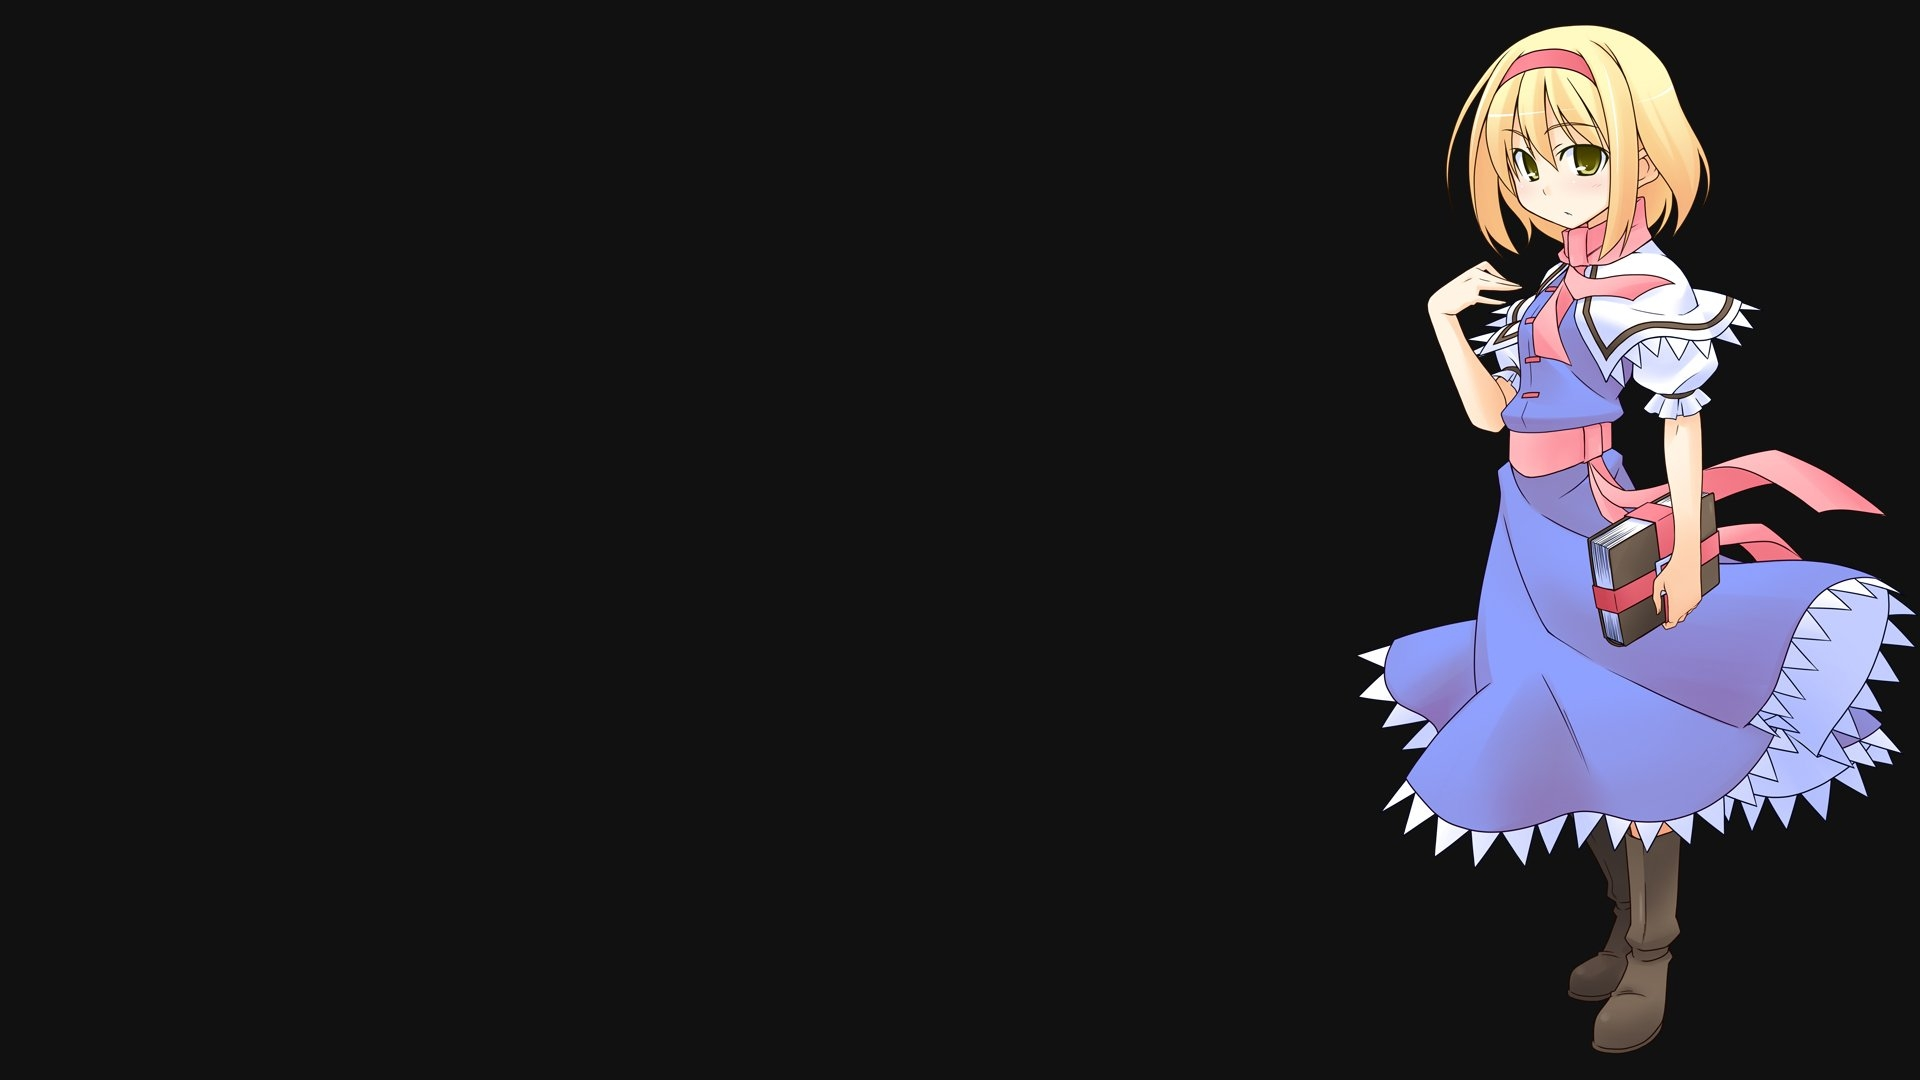
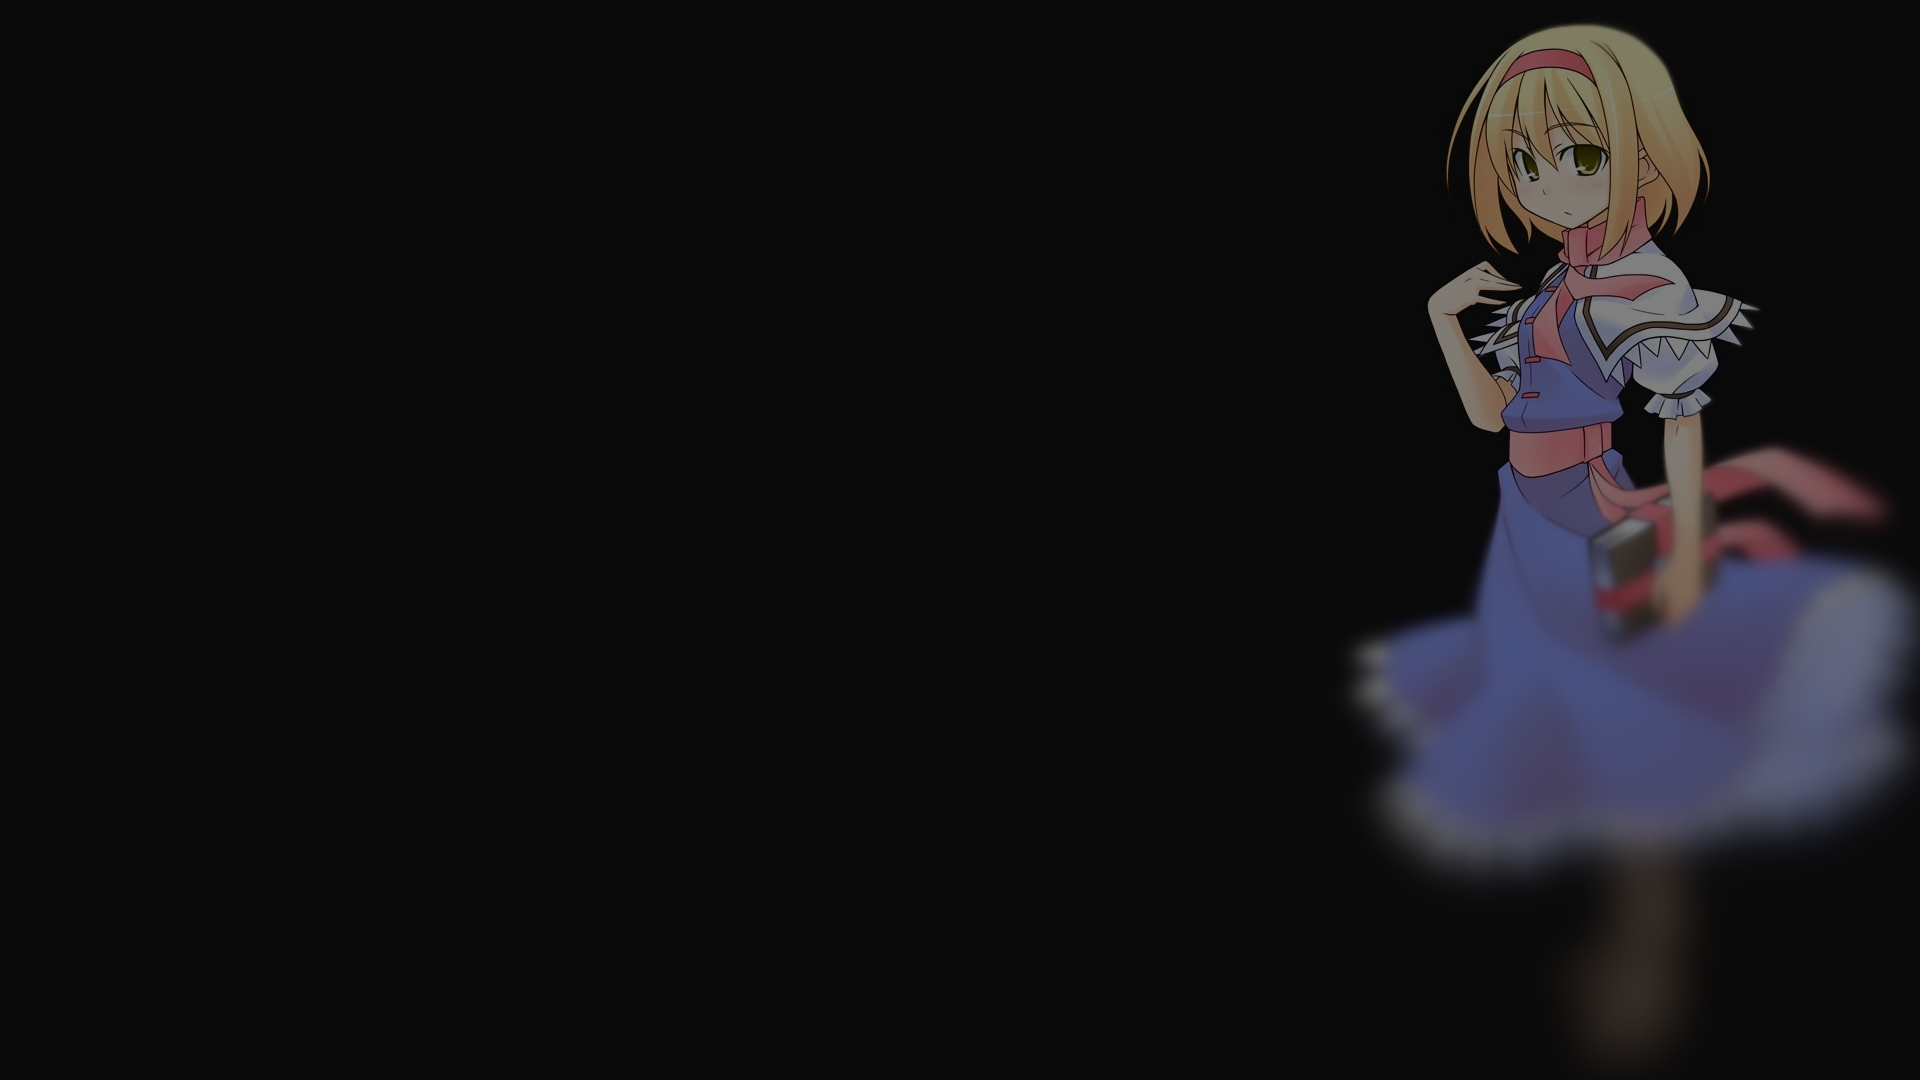
Implemented theming structure, two basic themes, and a fallback theme. Vocaloid theme to come later

Changed region(s): [[0.6875, 0.0, 1.0, 0.9778]]

diff --git a/other/start/styles/sakura.theme.css b/other/start/styles/sakura.theme.css
@@ -6,7 +6,7 @@ html {
     justify-content: center;
     margin: 0;
     /* background-color: #212121; */
-    background-image: url("../images/backgrounds/touhou.jpg");
+    background-image: url("../images/backgrounds/sakura.jpg");
     background-repeat: no-repeat;
     background-attachment: fixed;
     background-size: cover;
@@ -20,6 +20,7 @@ h1 {
     text-align: center;
     color: #fff;
     font-weight: bold;
+    text-shadow: 2px 2px 10px #000000;
 }
 
 body {
@@ -40,8 +41,8 @@ a:focus, a:hover {
 
 input {
     height: inherit;
-    background: rgb(18, 18, 18);
-    color: #9e9e9e;
+    background: rgb(203, 122, 149);
+    color: #fff;
     font-weight: bold;
     line-height: 2em;
     box-shadow: none;
@@ -54,6 +55,11 @@ input {
     grid-column: 1 / -1;
     margin: 0;
     transition: all .2s ease-in-out; 
+}
+
+::placeholder {
+    /* color: rgb(151, 91, 111); */
+    color: rgb(255, 153, 187);
 }
 
 input:focus {
@@ -91,45 +97,46 @@ input:focus {
     margin: 5;
     padding: 0px;
     text-align: center;
-    color: #aaa;
+    text-shadow: 2px 2px 10px #000000;
+    color: #fff;
 }
 
 #link1 {
-    background-image: url('../images/links/touhou/link1.webp');
+    background-image: url('../images/links/sakura/link1.webp');
 }
 
 #link2 {
-    background-image: url('../images/links/touhou/link2.webp');
+    background-image: url('../images/links/sakura/link2.webp');
 }
 
 #link3 {
-    background-image: url('../images/links/touhou/link3.webp');
+    background-image: url('../images/links/sakura/link3.webp');
 }
 
 #link4 {
-    background-image: url('../images/links/touhou/link4.webp');
+    background-image: url('../images/links/sakura/link4.webp');
 }
 
 #link5 {
-    background-image: url('../images/links/touhou/link5.webp');
+    background-image: url('../images/links/sakura/link5.webp');
 }
 
 #link6 {
-    background-image: url('../images/links/touhou/link6.webp');
+    background-image: url('../images/links/sakura/link6.webp');
 }
 
 #link7 {
-    background-image: url('../images/links/touhou/link7.webp');
+    background-image: url('../images/links/sakura/link7.webp');
 }
 
 #link8 {
-    background-image: url('../images/links/touhou/link8.webp');
+    background-image: url('../images/links/sakura/link8.webp');
 }
 
 #link9 {
-    background-image: url('../images/links/touhou/link9.webp');
+    background-image: url('../images/links/sakura/link9.webp');
 }
 
 #link10 {
-    background-image: url('../images/links/touhou/link10.webp');
+    background-image: url('../images/links/sakura/link10.webp');
 }

diff --git a/other/start/styles/default.theme.css b/other/start/styles/default.theme.css
@@ -5,8 +5,8 @@ html {
     height: 100%;
     justify-content: center;
     margin: 0;
-    /* background-color: #212121; */
-    background-image: url("../images/backgrounds/touhou.jpg");
+    background-color: #212121;
+    /* background-image: url("../images/backgrounds/default.jpg"); */
     background-repeat: no-repeat;
     background-attachment: fixed;
     background-size: cover;
@@ -95,41 +95,41 @@ input:focus {
 }
 
 #link1 {
-    background-image: url('../images/links/touhou/link1.webp');
+    background-image: url('../images/links/default/link1.webp');
 }
 
 #link2 {
-    background-image: url('../images/links/touhou/link2.webp');
+    background-image: url('../images/links/default/link2.webp');
 }
 
 #link3 {
-    background-image: url('../images/links/touhou/link3.webp');
+    background-image: url('../images/links/default/link3.webp');
 }
 
 #link4 {
-    background-image: url('../images/links/touhou/link4.webp');
+    background-image: url('../images/links/default/link4.webp');
 }
 
 #link5 {
-    background-image: url('../images/links/touhou/link5.webp');
+    background-image: url('../images/links/default/link5.webp');
 }
 
 #link6 {
-    background-image: url('../images/links/touhou/link6.webp');
+    background-image: url('../images/links/default/link6.webp');
 }
 
 #link7 {
-    background-image: url('../images/links/touhou/link7.webp');
+    background-image: url('../images/links/default/link7.webp');
 }
 
 #link8 {
-    background-image: url('../images/links/touhou/link8.webp');
+    background-image: url('../images/links/default/link8.webp');
 }
 
 #link9 {
-    background-image: url('../images/links/touhou/link9.webp');
+    background-image: url('../images/links/default/link9.webp');
 }
 
 #link10 {
-    background-image: url('../images/links/touhou/link10.webp');
+    background-image: url('../images/links/default/link10.webp');
 }

diff --git a/other/start/styles/vocaloid.theme.css b/other/start/styles/vocaloid.theme.css
@@ -6,7 +6,7 @@ html {
     justify-content: center;
     margin: 0;
     /* background-color: #212121; */
-    background-image: url("../images/backgrounds/touhou.jpg");
+    background-image: url("../images/backgrounds/vocaloid.jpg");
     background-repeat: no-repeat;
     background-attachment: fixed;
     background-size: cover;
@@ -95,41 +95,41 @@ input:focus {
 }
 
 #link1 {
-    background-image: url('../images/links/touhou/link1.webp');
+    background-image: url('../images/links/vocaloid/link1.webp');
 }
 
 #link2 {
-    background-image: url('../images/links/touhou/link2.webp');
+    background-image: url('../images/links/vocaloid/link2.webp');
 }
 
 #link3 {
-    background-image: url('../images/links/touhou/link3.webp');
+    background-image: url('../images/links/vocaloid/link3.webp');
 }
 
 #link4 {
-    background-image: url('../images/links/touhou/link4.webp');
+    background-image: url('../images/links/vocaloid/link4.webp');
 }
 
 #link5 {
-    background-image: url('../images/links/touhou/link5.webp');
+    background-image: url('../images/links/vocaloid/link5.webp');
 }
 
 #link6 {
-    background-image: url('../images/links/touhou/link6.webp');
+    background-image: url('../images/links/vocaloid/link6.webp');
 }
 
 #link7 {
-    background-image: url('../images/links/touhou/link7.webp');
+    background-image: url('../images/links/vocaloid/link7.webp');
 }
 
 #link8 {
-    background-image: url('../images/links/touhou/link8.webp');
+    background-image: url('../images/links/vocaloid/link8.webp');
 }
 
 #link9 {
-    background-image: url('../images/links/touhou/link9.webp');
+    background-image: url('../images/links/vocaloid/link9.webp');
 }
 
 #link10 {
-    background-image: url('../images/links/touhou/link10.webp');
+    background-image: url('../images/links/vocaloid/link10.webp');
 }

diff --git a/other/start/settings.html b/other/start/settings.html
@@ -1,0 +1,34 @@
+<!-- window.location.reload(true) -->
+
+<!DOCTYPE html>
+<html lang="en">
+    <head>
+        <meta charset="UTF-8" />
+        <meta name="viewport" content="width=device-width, initial-scale=1, shrink-to-fit=no" />
+        <meta name="description" content="Just a startpage..." />
+        <meta http-equiv="x-ua-compatible" content="ie=edge" />
+        <title>New tab settings</title>
+        <link rel="icon" type="image/png" href="../../img/favicon.png" />
+
+        <link href="https://cdn.jsdelivr.net/npm/bootstrap@5.1.1/dist/css/bootstrap.min.css" rel="stylesheet" integrity="sha384-F3w7mX95PdgyTmZZMECAngseQB83DfGTowi0iMjiWaeVhAn4FJkqJByhZMI3AhiU" crossorigin="anonymous">
+        <link id="pagestyle" rel="stylesheet" href="./styles/default.theme.css">
+    </head>
+    <body>
+        <div class="container-md">
+            <div class="row">
+                <h1>Startpage settings</h1>
+                <p id="dateDisplay">Reload your startpage browser tab<br>after selecting a theme.</p>
+            </div>
+            <br>
+            <div class="row">
+                <a href="#" onclick="setTheme('default')" rel="noopener noreferrer" class="col-sm m-1" id="link1">Default</a>
+                <a href="#" onclick="setTheme('sakura')" rel="noopener noreferrer" class="col-sm m-1" id="link1">Sakura</a>
+                <a href="#" onclick="setTheme('touhou')" rel="noopener noreferrer" class="col-sm m-1" id="link1">Touhou</a>
+                <a href="#" onclick="setTheme('vocaloid')" rel="noopener noreferrer" class="col-sm m-1" id="link1">Vocaloid</a>
+            </div>
+        </div>
+    </body>
+
+    <script src="./scripts/themeSettings.js"></script>
+
+</html>

diff --git a/other/start/scripts/shortcut.js b/other/start/scripts/shortcut.js
@@ -1,0 +1,62 @@
+var shortcut = {
+    // (A) SET SHORTCUT KEYS TO LISTEN TO
+    listen : null,
+    set : function (listen) {
+      // (A1) KEY SEQUENCE + FUNCTION TO RUN
+      shortcut.listen = listen;
+  
+      // (A2) KEY PRESS LISTENERS
+      window.addEventListener("keydown", evt => {
+        shortcut.track(evt.key.toLowerCase(), true);
+      });
+      window.addEventListener("keyup", evt => {
+        shortcut.track(evt.key.toLowerCase(), false);
+      });
+    },
+    
+    // (B) KEY PRESS SEQUENCE TRACKER
+    sequence : [],
+    track : function (key, direction) {
+      // (B1) PREVENT AUTO CLEANING
+      if (shortcut.junk != null) {
+        clearTimeout(shortcut.junk);
+      }
+      
+      // (B2) KEY DOWN
+      if (direction) {
+        if (!shortcut.sequence.includes(key)) {
+          shortcut.sequence.push(key);
+        }
+      } 
+  
+      // (B3) KEY UP
+      else {
+        let idx = shortcut.sequence.indexOf(key);
+        if (idx != -1) {
+          shortcut.sequence.splice(idx, 1);
+        }
+      }
+  
+      // (B4) HIT SHORTCUT?
+      if (shortcut.sequence.length != 0) {
+        let seq = shortcut.sequence.join("-");
+        if (shortcut.listen[seq]) {
+          shortcut.sequence = [];
+          shortcut.listen[seq]();
+        }
+  
+        // (B5) PREVENT "STUCK SEQUENCE" WHEN USER LEAVES PAGE
+        // E.G. OPEN NEW TAB WHILE IN MIDDLE OF KEY PRESS SEQUENCE
+        else {
+          shortcut.junk = setTimeout(shortcut.clean, 600)
+        }
+      }
+    },
+    
+    // (C) AUTO CLEANUP
+    junk : null,
+    clean : function () {
+      shortcut.junk = null;
+      shortcut.sequence = [];
+    }
+  };

diff --git a/other/start/index.html b/other/start/index.html
@@ -5,11 +5,11 @@
         <meta name="viewport" content="width=device-width, initial-scale=1, shrink-to-fit=no" />
         <meta name="description" content="Just a startpage..." />
         <meta http-equiv="x-ua-compatible" content="ie=edge" />
-        <title>Avellea</title>
+        <title>New tab</title>
         <link rel="icon" type="image/png" href="../../img/favicon.png" />
 
         <link href="https://cdn.jsdelivr.net/npm/bootstrap@5.1.1/dist/css/bootstrap.min.css" rel="stylesheet" integrity="sha384-F3w7mX95PdgyTmZZMECAngseQB83DfGTowi0iMjiWaeVhAn4FJkqJByhZMI3AhiU" crossorigin="anonymous">
-        <link rel="stylesheet" href="./styles/style.css">
+        <link id="pagestyle" rel="stylesheet" href="./styles/default.theme.css">
 
     </head>
 
@@ -61,8 +61,21 @@
                 </a>
             </div>
         </div>
+        
     </body>
 
     <script src="./scripts/startpage.js"></script>
+    <script src="./scripts/shortcut.js"></script>
+
+    <script> 
+        // (C) JUST USE SHORTCUT.SET() ON PAGE LOAD
+        // Use https://keycode.info/ to help you get the key name
+        // event.key in all small letters
+        window.addEventListener("DOMContentLoaded", function(){
+          shortcut.set({
+            "control-o" : function(){ window.open('./settings.html', '_blank'); }
+          });
+        });
+        </script>
 
 </html>

diff --git a/other/start/scripts/startpage.js b/other/start/scripts/startpage.js
@@ -1,6 +1,20 @@
 window.onload = function() {
     this.initSearchBar()
     this.displayDate()
+    this.swapStyleSheet()
+}
+
+function swapStyleSheet() {
+    var themeName = localStorage.getItem("theme")
+
+    if(themeName === null) {
+        console.warn("Theme is null, fallback...")
+        document.getElementById('pagestyle').setAttribute('href', './styles/default.theme.css')
+    } else {
+        document.getElementById('pagestyle').setAttribute('href', `./styles/${themeName}.theme.css`)
+        console.log("Setting theme to " + themeName)
+    }
+
 }
 
 function displayDate() {

diff --git a/other/start/scripts/themeSettings.js b/other/start/scripts/themeSettings.js
@@ -1,0 +1,11 @@
+window.onload = function() {
+
+    var themeName = localStorage.getItem("theme")
+    console.log(themeName)
+
+}
+
+function setTheme(themeName) {
+    console.log(`Set theme to ${themeName}`);
+    localStorage.setItem('theme', themeName)
+}
